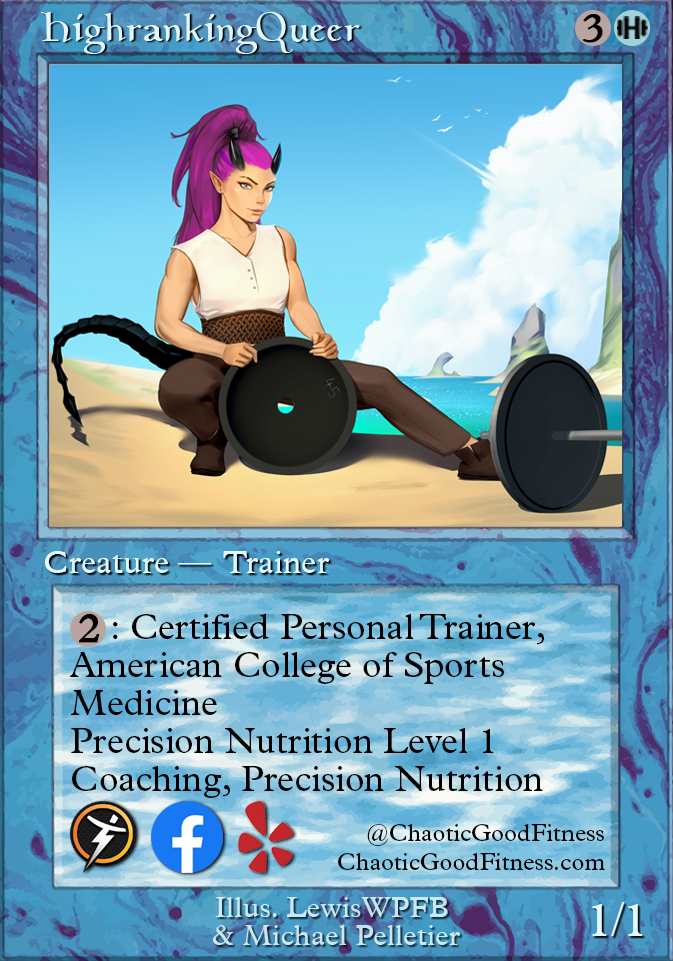
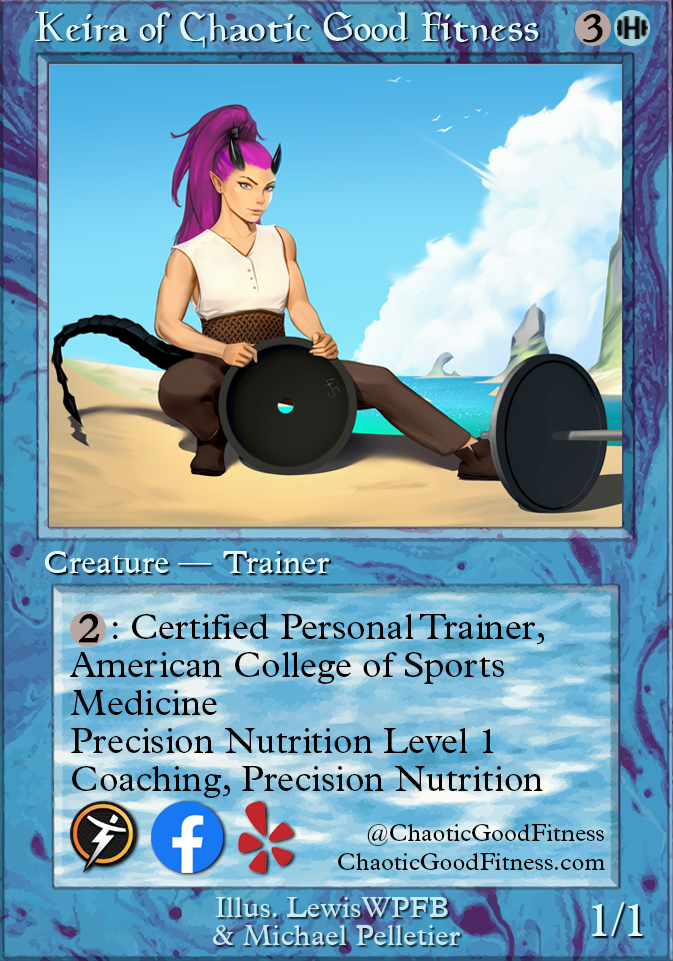
Fix name and typo and spacing

Changed region(s): [[0.0624, 0.0, 0.8113, 0.0624]]

diff --git a/src/pages/Contact.vue b/src/pages/Contact.vue
@@ -1,7 +1,7 @@
 <template>
   <Layout>
     <h1>Contact</h1>
-    <p>If you're ready to set up an orieintation call with me, please use my <g-link href="https://calendly.com/kjharbison/new-client-orientation">Calendly</g-link> to schedule a chat!</p>
+    <p>If you're ready to set up an orientation call with me, please use my <g-link href="https://calendly.com/kjharbison/new-client-orientation">Calendly</g-link> to schedule a chat!</p>
     <p>Otherwise if you have any questions, please feel free to contact me:</p>
     <p><b>Phone number:</b> 631-379-7074</p>
     <p><b>Email:</b> keira.harbison@gmail.com</p>

diff --git a/src/style/app.scss b/src/style/app.scss
@@ -185,8 +185,8 @@ footer {
 
   .homepage--section-second {
     .premise {
-      margin-right: 12px;
-      width: 388px;
+      margin-right: 24px;
+      width: calc(400px - 24px);
     }
   }
 
@@ -209,7 +209,7 @@ footer {
     font-size: 12px;
     font-weight: bold;
     justify-content: center;
-    margin-right: 12px;
+    margin-right: 24px;
     text-transform: uppercase;
     width: 400px;
 
@@ -219,7 +219,7 @@ footer {
   }
 
   .premise {
-    width: calc(100% - 400px - 12px);
+    width: calc(100% - 400px - 24px);
   }
 }
 
